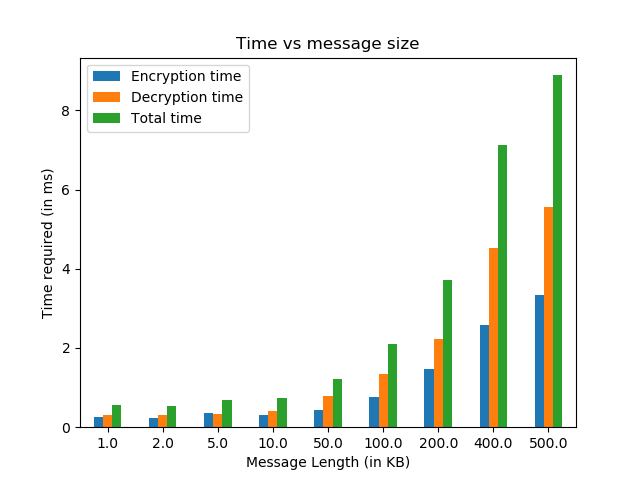
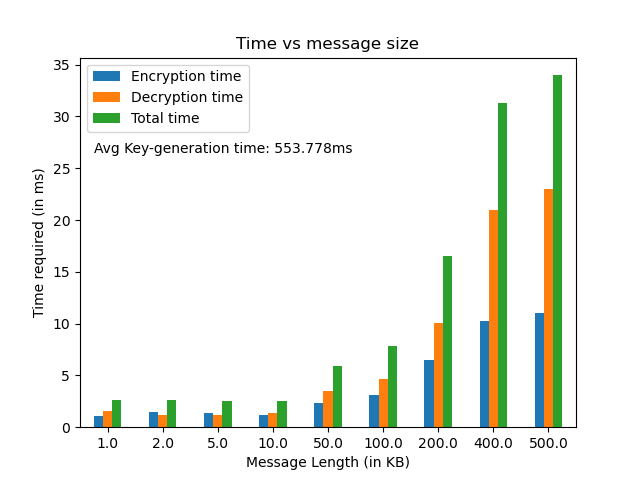
update graph

diff --git a/src/ecc_vs_rsa/visualize.py b/src/ecc_vs_rsa/visualize.py
@@ -60,7 +60,7 @@ def visualize_ecc():
 
     ax = meandf.plot(rot=0,  use_index=True, kind='bar', title='Time vs message size')
     print("Avg Key-generation time: " + avg_keygentime)
-    plt.text(0, 30, "Avg Key-generation time: " + avg_keygentime)
+    plt.text(-0.25, 26.5, "Avg Key-generation time: " + avg_keygentime)
 
     plt.xlabel("Message Length (in KB)")
     plt.ylabel("Time required (in ms)")

diff --git a/README.md b/README.md
@@ -5,8 +5,8 @@
 We had a general idea about how cryptography works and why it is used. We also knew some of its applications and the kind of techniques/ algorithms used in the same applications. When we were learning about cryptography we were told that the different methods and techniques used to handle different scenarios were well tested and known to not have security threats that would lead to compromise of information within a reasonable time using a reasonably large number of resources. That’s one of the main reasons why different organizations using these different techniques try not to use another alternative from what they are currently using unless the ones that they are using have some reported security threats i.e. they abide by the saying “if it ain’t broke, dont fix it”. This made us think about the existence of a fairly new technique, elliptic curve cryptography and it’s gaining popularity. So we wanted to explore/ experiment and know for ourselves, the advantages of using it.
 
 In the first project **ecc vs rsa**, we have tried to compare RSA with ECIES - to see if there were any performance benefits.
-In the second project **attestation**, we have built any application to mimic attestation functionality - to check the feasibility of ECC in a slightly more realistic scenario.
 
+In the second project **attestation**, we have built any application to mimic attestation functionality - to check the feasibility of ECC in a slightly more realistic scenario.
 
 ## How to run the program
 
@@ -115,6 +115,14 @@ Let the server run on Terminal A.
     ```shell
     python verifer.py
     ```
+
+## Exploring ECC VS RSA
+
+### ECC
+[!ECC](https://github.com/jai-singhal/iot-ecc/blob/master/graphs/ECC.png)
+
+### RSA
+[!RSA](https://github.com/jai-singhal/iot-ecc/blob/master/graphs/RSA.png)
 
 
 ## Directory Structure
